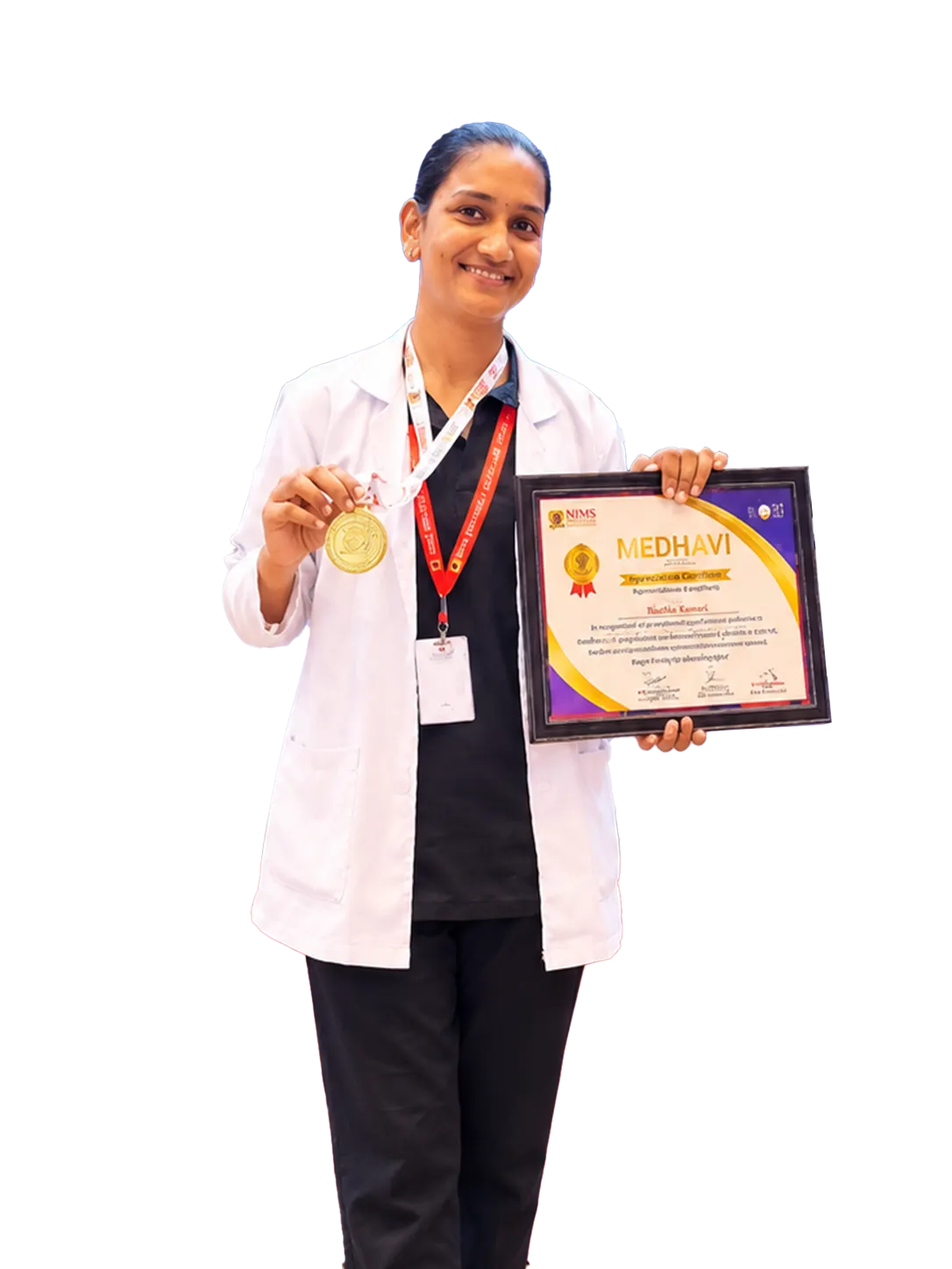
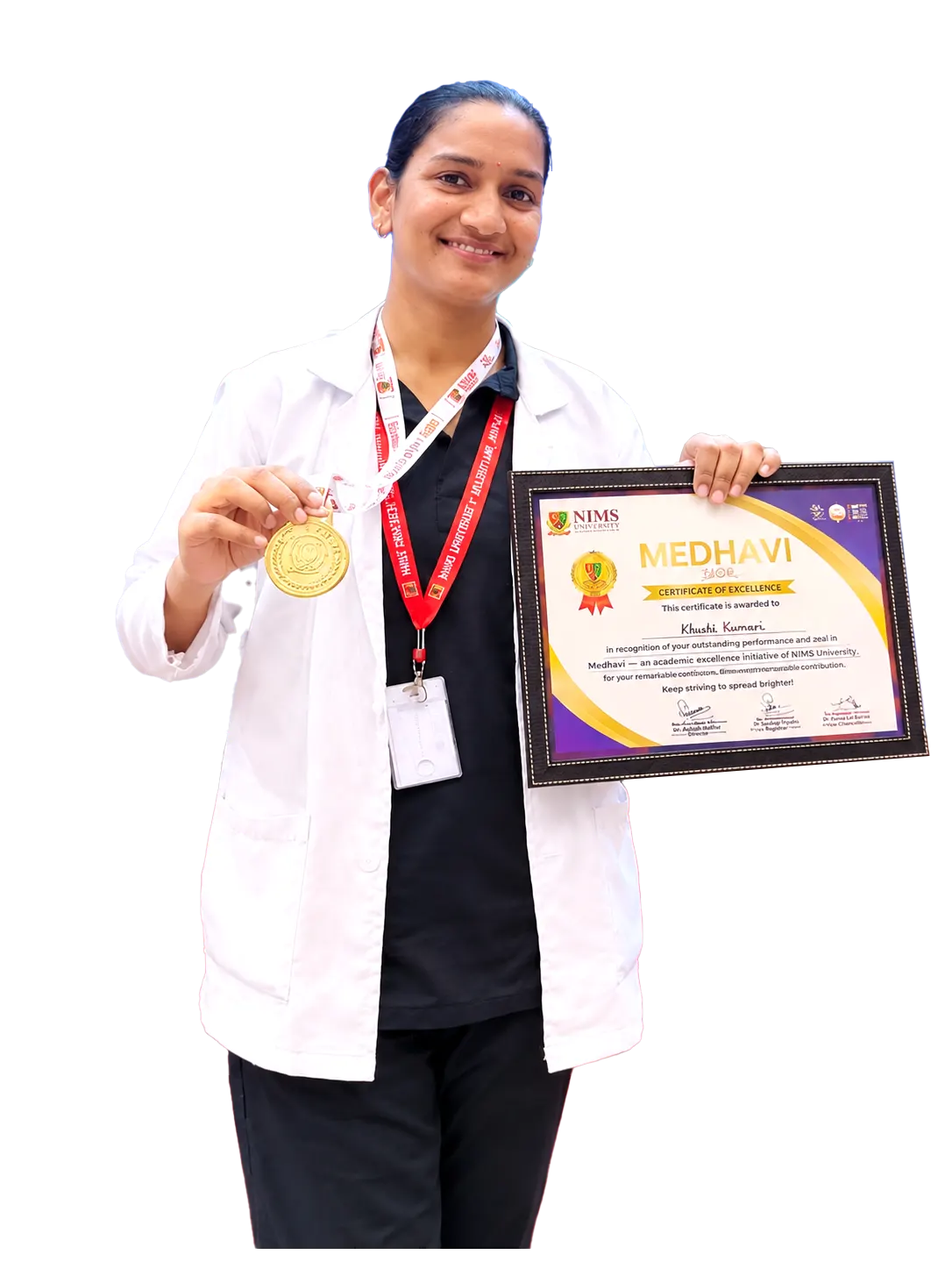
hero section updated

Changed region(s): [[0.1215, 0.0622, 0.9724, 1.0], [0.3039, 0.6842, 0.3343, 0.7153]]

diff --git a/index.html b/index.html
@@ -459,7 +459,7 @@
 
 
                                                         <div class="law-placement-destination">
-                                                               <div class="law-placement-logos">
+                                                               <div class="law-placement-logos law-placement-organisation">
                                                                       <div class="law-placement-badge law-placement-badge--logo law-placement-badge--rjs">
                                                                              <img alt="Rajasthan High Court emblem" decoding="async" loading="lazy" src="images/nims-hospital-logo.png">
                                                                       </div>
@@ -480,7 +480,7 @@
 
 
                                                         <div class="law-placement-destination">
-                                                               <div class="law-placement-logos">
+                                                               <div class="law-placement-logos law-placement-organisation">
                                                                       <div class="law-placement-badge law-placement-badge--logo law-placement-badge--rjs">
                                                                              <img alt="Rajasthan High Court emblem" decoding="async" loading="lazy" src="images/nims-hospital-logo.png">
                                                                       </div>
@@ -501,7 +501,7 @@
 
 
                                                         <div class="law-placement-destination">
-                                                               <div class="law-placement-logos">
+                                                               <div class="law-placement-logos law-placement-organisation">
                                                                       <div class="law-placement-badge law-placement-badge--logo law-placement-badge--court">
                                                                              <img alt="Nims Hospital Rajasthan, Jaipur logo" decoding="async" loading="lazy" src="images/nims-hospital-logo.png">
                                                                       </div>
@@ -782,7 +782,7 @@
                                                                <p class="law-placement-role">Sr. Nursing Officer</p>
                                                         </div>
                                                         <div class="law-placement-destination">
-                                                               <div class="law-placement-logos">
+                                                               <div class="law-placement-logos law-placement-organisation">
                                                                       <div class="law-placement-badge law-placement-badge--logo">
                                                                              <img alt="Aditya Birla Fashion and Retail Limited logo" decoding="async" loading="lazy" src="images/fortis-logo.png">
                                                                       </div>
@@ -1423,7 +1423,7 @@
                      </div>
               </section>
 
-              <section aria-labelledby="career-title" class="career section-space" id="career">
+              <!-- <section aria-labelledby="career-title" class="career section-space" id="career">
                      <div class="content-width">
                             <div class="career-profiles-header">
                                    <h2 class="career-profiles-title" id="career-title">
@@ -1443,7 +1443,7 @@
                                    </div>
                             </div>
                             <div aria-label="Law student internship stories" class="career-profiles-track" id="career-profiles" role="region" tabindex="0">
-                                   <!-- <article aria-label="Abhishek Kumar internship stories" class="career-profile-card law-internship-card" data-student="abhishek-kumar" data-internship-rotator="">
+                                   <article aria-label="Abhishek Kumar internship stories" class="career-profile-card law-internship-card" data-student="abhishek-kumar" data-internship-rotator="">
                                           <div class="law-internship-portrait-frame">
                                                  <img alt="Abhishek Kumar" class="career-profile-portrait" decoding="async" height="1536" loading="lazy" src="images/abhishek-khurana-portrait.webp" width="1024">
                                           </div>
@@ -1501,19 +1501,19 @@
                                                                </svg></button>
                                                  </div>
                                           </div>
-                                   </article> -->
+                                   </article>
                                    <article aria-label="Srestha Chatterjee: Represented NIMS University Rajasthan in the Rajasthan Budget 2026" class="career-profile-card law-internship-card" data-student="pooja-das">
                                           <div class="law-internship-portrait-frame">
                                                  <img alt="Srestha Chatterjee" class="career-profile-portrait" decoding="async" height="1536" loading="lazy" src="images/srestha-chatterjee.webp" width="1024">
                                           </div>
                                           <div class="career-profile-copy">
                                                  <h3>Srestha Chatterjee</h3>
-                                                 <!-- <div class="law-internship-organisation">
+                                                 <div class="law-internship-organisation">
                                                         <img alt="People's Union for Civil Liberties logo" class="career-profile-company law-internship-logo law-internship-logo--pucl" decoding="async" height="80" loading="lazy" src="images/pucl-logo.webp" width="293">
                                                         <span>People's Union for Civil Liberties</span>
-                                                 </div> -->
+                                                 </div>
                                                  <p>
-                                                        <!-- <strong class="career-profile-role">Human Rights <span class="internship-highlight">Internship</span></strong> -->
+                                                        <strong class="career-profile-role">Human Rights <span class="internship-highlight">Internship</span></strong>
                                                         Represented NIMS University Rajasthan in the Rajasthan Budget 2026 Communication and Debate Programme before the Hon’ble Prime Minister and Chief Minister of Rajasthan.</p>
                                           </div>
                                    </article>
@@ -1523,16 +1523,16 @@
                                           </div>
                                           <div class="career-profile-copy">
                                                  <h3>Priya Khatana</h3>
-                                                 <!-- <div class="law-internship-organisation">
+                                                 <div class="law-internship-organisation">
                                                         <img alt="Rajasthan High Court logo" class="career-profile-company law-internship-logo law-internship-logo--rajasthan-high-court" decoding="async" height="275" loading="lazy" src="images/rajasthan-high-court-logo.webp" width="275">
                                                         <span>Rajasthan High Court</span>
-                                                 </div> -->
+                                                 </div>
                                                  <p>
-                                                        <!-- <strong class="career-profile-role">Criminal Litigation <span class="internship-highlight">Internship</span></strong> -->
+                                                        <strong class="career-profile-role">Criminal Litigation <span class="internship-highlight">Internship</span></strong>
                                                         Represented Rajasthan in senior state volleyball and basketball championships and the state-level triple jump championship during 2023–24 and 2024–25.</p>
                                           </div>
                                    </article>
-                                   <!-- <article aria-label="Anisha Bishnoi: Rajasthan High Court internship" class="career-profile-card law-internship-card" data-student="anisha-bishnoi">
+                                   <article aria-label="Anisha Bishnoi: Rajasthan High Court internship" class="career-profile-card law-internship-card" data-student="anisha-bishnoi">
                                           <div class="law-internship-portrait-frame">
                                                  <img alt="Anisha Bishnoi" class="career-profile-portrait" decoding="async" height="1536" loading="lazy" src="images/anisha-bishnoi-portrait.webp" width="1024">
                                           </div>
@@ -1548,8 +1548,8 @@
                                                         experience places legal theory within the working environment of
                                                         the High Court.</p>
                                           </div>
-                                   </article> -->
-                                   <!-- <article aria-label="Shaina Choudhary: Rajasthan High Court internship" class="career-profile-card law-internship-card" data-student="shaina-choudhary">
+                                   </article>
+                                   <article aria-label="Shaina Choudhary: Rajasthan High Court internship" class="career-profile-card law-internship-card" data-student="shaina-choudhary">
                                           <div class="law-internship-portrait-frame">
                                                  <img alt="Shaina Choudhary" class="career-profile-portrait" decoding="async" height="1448" loading="lazy" src="images/shaina-choudhary-portrait.webp" width="1086">
                                           </div>
@@ -1565,8 +1565,8 @@
                                                         the experience offers a professional context for the criminal
                                                         law she studies at NIMS.</p>
                                           </div>
-                                   </article> -->
-                                   <!-- <article aria-label="Sneha Chauhan: Allahabad High Court, Lucknow Bench internship" class="career-profile-card law-internship-card" data-student="sneha-chauhan">
+                                   </article>
+                                   <article aria-label="Sneha Chauhan: Allahabad High Court, Lucknow Bench internship" class="career-profile-card law-internship-card" data-student="sneha-chauhan">
                                           <div class="law-internship-portrait-frame">
                                                  <img alt="Sneha Chauhan" class="career-profile-portrait" decoding="async" height="1536" loading="lazy" src="images/sneha-chauhan-portrait.webp" width="1024">
                                           </div>
@@ -1582,8 +1582,8 @@
                                                         with a judicial setting. It brings the court's role in the
                                                         justice system closer to her learning.</p>
                                           </div>
-                                   </article> -->
-                                   <!-- <article aria-label="Nandini Sisodiya: Allahabad High Court, Lucknow Bench internship" class="career-profile-card law-internship-card" data-student="nandini-sisodiya">
+                                   </article>
+                                   <article aria-label="Nandini Sisodiya: Allahabad High Court, Lucknow Bench internship" class="career-profile-card law-internship-card" data-student="nandini-sisodiya">
                                           <div class="law-internship-portrait-frame">
                                                  <img alt="Nandini Sisodiya" class="career-profile-portrait" decoding="async" height="1536" loading="lazy" src="images/nandini-sisodiya-portrait.webp" width="1024">
                                           </div>
@@ -1599,8 +1599,8 @@
                                                         connects classroom study with the professional environment in
                                                         which judicial work takes place.</p>
                                           </div>
-                                   </article> -->
-                                   <!-- <article aria-label="Himanshi Bhardwaj: Madhya Pradesh High Court, Indore Bench internship" class="career-profile-card law-internship-card" data-student="himanshi-bhardwaj">
+                                   </article>
+                                   <article aria-label="Himanshi Bhardwaj: Madhya Pradesh High Court, Indore Bench internship" class="career-profile-card law-internship-card" data-student="himanshi-bhardwaj">
                                           <div class="law-internship-portrait-frame">
                                                  <img alt="Himanshi Bhardwaj" class="career-profile-portrait" decoding="async" height="1448" loading="lazy" src="images/himanshi-bhardwaj-portrait.webp" width="1086">
                                           </div>
@@ -1616,8 +1616,8 @@
                                                         advocate's practice. It places her legal education in the
                                                         context of a working chamber.</p>
                                           </div>
-                                   </article> -->
-                                   <!-- <article aria-label="Shushma Yadav: Rajasthan High Court, Jaipur Bench internship" class="career-profile-card law-internship-card" data-student="shushma-yadav">
+                                   </article>
+                                   <article aria-label="Shushma Yadav: Rajasthan High Court, Jaipur Bench internship" class="career-profile-card law-internship-card" data-student="shushma-yadav">
                                           <div class="law-internship-portrait-frame">
                                                  <img alt="Shushma Yadav" class="career-profile-portrait" decoding="async" height="1536" loading="lazy" src="images/shushma-yadav-portrait.webp" width="1024">
                                           </div>
@@ -1633,13 +1633,13 @@
                                                         practice. Her experience brings the professional setting of an
                                                         advocate's chamber into her journey as a law student.</p>
                                           </div>
-                                   </article> -->
+                                   </article>
                             </div>
                             <p aria-live="polite" class="career-profiles-announcement visually-hidden" role="status">
                             </p>
 
                      </div>
-              </section>
+              </section> -->
 
 
               <!-- End Videos and Student Stories -->
@@ -1951,17 +1951,22 @@
                                           <p>From academic excellence and clinical research achievements to sports victories, healthcare competitions, and professional recognitions, NIMS College of Nursing & Occupational Therapy celebrates student success across disciplines.</p>
                                    </header>
                                    <div aria-label="Student achievement highlights" class="law-achievements-stats">
-                                          <article><strong>Top 5</strong>
-                                                 <h3>All India Institute of Medical Sciences</h3>
-                                                 <p>New Delhi</p>
+                                          <article><strong>Designation</strong>
+                                                 <h3>State championship in volleyball</h3>
+                                                 <p>Basketball - State Gold Medal</p>
+                                                 <p>Atheletics - District & State Level</p>
+                                                 <p>Relay Race - Gold Medal in ATC NCC</p>
+                                                 <p>volleyball - Gold Medal in NCC</p>
+                                                 <p>volleyball - Gold Medal in sailing expedition</p>
                                           </article>
                                           <article><strong>Clinical</strong>
-                                                 <h3>Clinical Excellence</h3>
+                                                 <!-- <h3>Clinical Excellence</h3> -->
                                                  <p>Hands-on clinical training at NIMS Hospital, Jaipur</p>
                                           </article>
                                           <article><strong>National</strong>
                                                  <h3>Professional Recognition</h3>
-                                                 <p>Developing skilled nursing professionals for healthcare excellence</p>
+                                                
+                                                 <p>Selected as a Senior Cadet from Jaipur under the 3 Raj Naval Unit to represent the college at the prestigious National NCC Camp held in Manali, demonstrating leadership, discipline, and dedication.</p>
                                           </article>
                                    </div>
                                    <figure class="law-achievements-hero">
@@ -1972,12 +1977,12 @@
                                           <span aria-hidden="true" class="law-achievement-doodle law-achievement-doodle--committee"><svg viewBox="0 0 60 60" fill="none">
                                                         <path d="m8 18 22-10 22 10M12 22h36M14 26v17m11-17v17m10-17v17m11-17v17M9 47h42M6 52h48"></path>
                                                  </svg>Nursing</span>
-                                          <img alt="Khushi Kumari holding her Special Mention award and certificate" class="law-achievements-hero-image" decoding="async" loading="lazy" src="images/khushu-kumari.webp" width="1024" height="1536">
-                                          <figcaption><strong>Khushi Kumari</strong><span>Special Mention Award</span>
+                                          <img alt="Khushi Kumari holding her Special Mention award and certificate" class="law-achievements-hero-image" decoding="async" loading="lazy" src="images/priya-khatana.webp" width="1024" height="1536">
+                                          <figcaption><strong>Priya Khatana</strong><span>Senior championship in volleyball Bhilwara, Rajasthan</span>
                                           </figcaption>
                                    </figure>
                             </div>
-                            <div class="law-achievements-gallery-heading" style="display: none;">
+                            <div class="law-achievements-gallery-heading">
                                    <h3>Student Achievements &amp; Recognition</h3>
                                    <div aria-label="Achievement gallery controls" class="law-achievements-controls">
                                           <button aria-controls="law-achievements-track" aria-label="Previous student achievements" data-achievement-previous="" type="button"><span aria-hidden="true">←</span></button>
@@ -1985,68 +1990,63 @@
                                    </div>
                             </div>
                             <div aria-label="Student achievements and participation" class="law-achievements-track" id="law-achievements-track" role="list" tabindex="0">
-                                   <!-- <article class="law-achievement-card law-achievement-card--portrait" data-achievement="nitya-singh-special-mention-rajya-sabha-committee" role="listitem">
+                                   <article class="law-achievement-card law-achievement-card--portrait" data-achievement="nitya-singh-special-mention-rajya-sabha-committee" role="listitem">
                                           <div class="law-achievement-image">
-                                                 <img alt="Nitya Singh, NIMS School of Law student" decoding="async" loading="lazy" src="images/nitya-singh-special-mention-rajya-sabha-committee-card-v2.webp" width="1024" height="1536">
+                                                 <img alt="Nitya Singh, NIMS School of Law student" decoding="async" loading="lazy" src="images/laurette.webp" width="1024" height="1536">
                                           </div>
                                           <header class="law-achievement-card-heading">
-                                                 <h4>Nitya<br>Singh</h4>
-                                                 <span>Parliamentary Honour</span>
+                                                 <h4>Laurette<br>Phiri</h4>
+                                                 <!-- <span>Global Arcus</span> -->
                                           </header>
                                           <div class="law-achievement-card-copy " style="margin-top: 80%;">
-                                                 <strong class="law-achievement-award ">Special Mention Award</strong>
-                                                 <p>Recognised with a Special Mention Award in the Rajya Sabha
-                                                        Committee.</p>
+                                                 <strong class="law-achievement-award ">Global Arcus Award</strong>
+                                                 <p>1<sup>st</sup> Postion in Girls Football, Rajasthan</p>
                                           </div>
                                           
                                    </article>
                                    <article class="law-achievement-card law-achievement-card--portrait" data-achievement="bhawana-honourable-mention-ncw-committee" role="listitem">
                                           <div class="law-achievement-image">
-                                                 <img alt="Bhawana, NIMS School of Law student" decoding="async" loading="lazy" src="images/bhawana-honourable-mention-ncw-committee-card-v2.webp" width="1024" height="1536">
+                                                 <img alt="Srestha Chatterjee" decoding="async" loading="lazy" src="images/srestha-chatterjee.webp" width="1024" height="1536">
                                           </div>
                                           <header class="law-achievement-card-heading">
-                                                 <h4>Bhawana</h4>
-                                                 <span>Committee Recognition</span>
+                                                 <h4>Srestha Chatterjee</h4>
+                                                 <!-- <span>Committee Recognition</span> -->
                                           </header>
                                           <div class="law-achievement-card-copy">
-                                                 <strong class="law-achievement-award">Honourable Mention Award</strong>
-                                                 <p>Recognised in the National Commission for Women Committee.</p>
+                                                 <strong class="law-achievement-award">Communication & Debate Programme</strong>
+                                                 <p>Represented NIMS University Rajasthan in the Rajasthan Budget 2026 Communication and Debate Programme before the Hon’ble Prime Minister and Chief Minister of Rajasthan.</p>
                                           </div>
                                           
                                    </article>
                                    <article class="law-achievement-card law-achievement-card--portrait" data-achievement="diksha-parihar-ai-careers-for-women-fellowship" role="listitem">
                                           <div class="law-achievement-image">
-                                                 <img alt="Diksha Parihar, NIMS School of Law student" decoding="async" loading="lazy" src="images/diksha-parihar-ai-careers-for-women-fellowship-card-v2.webp" width="1024" height="1536">
+                                                 <img alt="Atidev, NIMS School of Nursing student" decoding="async" loading="lazy" src="images/atidev.webp" width="1024" height="1536">
                                           </div>
                                           <header class="law-achievement-card-heading">
-                                                 <h4>Diksha<br>Parihar</h4>
-                                                 <span>Fellowship Selection</span>
+                                                 <h4>Atidev</h4>
+                                                 <!-- <span>Fellowship Selection</span> -->
                                           </header>
                                           <div class="law-achievement-card-copy">
-                                                 <strong class="law-achievement-award">AI Careers for Women
-                                                        Fellowship</strong>
-                                                 <p>Selected nationally for the AI Careers for Women LinkedIn
-                                                        Fellowship.</p>
+                                                 <strong class="law-achievement-award">Excellence in Sports Award(Badminton)</strong>
+                                                 <p>03 Time District Champion – Banka, Bihar<br />01 Time State Champion – Patna, Bihar<br>02 Time State-Level Runner-up – Patna, Bihar<br />01 Time National Championship Participant – Represented Bihar</p>
                                           </div>
                                           
                                    </article>
                                    <article class="law-achievement-card law-achievement-card--portrait-group" data-achievement="national-environment-youth-parliament-top-five-finalists" role="listitem">
                                           <div class="law-achievement-image">
-                                                 <img alt="Five NIMS law students recognised as top-five finalists" decoding="async" loading="lazy" src="images/national-environment-youth-parliament-top-five-finalists-card-v4.webp" width="1024" height="1536">
+                                                 <img alt="Khushi Kumari Nursing students recognised as top-five finalists" decoding="async" loading="lazy" src="images/khushu-kumari.webp" width="1024" height="1536">
                                           </div>
                                           <header class="law-achievement-card-heading">
-                                                 <h4>Top 5 Finalists</h4>
-                                                 <span>National Recognition</span>
+                                                 <h4>Khushi Kumari</h4>
+                                                 <!-- <span>National Recognition</span> -->
                                           </header>
                                           <div class="law-achievement-card-copy">
-                                                 <strong class="law-achievement-award">National Environment Youth
-                                                        Parliament</strong>
-                                                 <p>NIMS School of Law students reached the top five at the 4th National
-                                                        Environment Youth Parliament at Vidhan Bhavan, Nagpur.</p>
+                                                 <strong class="law-achievement-award">Medhavi Award – University Topper</strong>
+                                                 <p>National-Level Participation – National Integration Camp (NIC) 2026</p>
                                           </div>
                                           
                                    </article>
-                                   <article class="law-achievement-card law-achievement-card--portrait-group" data-achievement="anita-badminton-competition-2025" role="listitem">
+                                   <!-- <article class="law-achievement-card law-achievement-card--portrait-group" data-achievement="anita-badminton-competition-2025" role="listitem">
                                           <div class="law-achievement-image">
                                                  <img alt="Anita and badminton competitors with trophies, medals and certificates" decoding="async" loading="lazy" src="images/anita-badminton-competition-2025-card-v4.webp" width="1024" height="1536">
                                           </div>

diff --git a/css/style.css b/css/style.css
@@ -2658,7 +2658,7 @@ dialog.law-event-dialog{width:min(1140px,calc(100vw - 40px));max-width:none;max-
 .law-achievements-heading h2>span{background:var(--heading-gradient);background-clip:text;-webkit-background-clip:text;color:transparent}
 .law-achievements-heading>p{max-width:1040px;margin:0;color:#383838;font:400 clamp(16px,1.15vw,21px)/1.65 "Plus Jakarta Sans",sans-serif}
 .law-achievements-stats{grid-area:stats;display:grid;grid-template-columns:repeat(3,minmax(0,1fr));gap:clamp(16px,1.5vw,28px);position:relative;z-index:2}
-.law-achievements-stats article{display:flex;flex-direction:column;justify-content:center;align-items:flex-start;min-width:0;min-height:clamp(190px,16.5vw,275px);padding:clamp(18px,1.4vw,27px);border:1px solid #426b90;border-radius:clamp(22px,2vw,34px);background:#fff}
+.law-achievements-stats article{display:flex;flex-direction:column;justify-content:start;align-items:flex-start;min-width:0;min-height:clamp(190px,16.5vw,275px);padding:clamp(18px,1.4vw,27px);border:1px solid #426b90;border-radius:clamp(22px,2vw,34px);background:#fff}
 .law-achievements-stats article>strong{display:block;margin-bottom:20px;color:#ce293c;font:400 clamp(40px,2.2vw,78px)/1.05 Anton,sans-serif;letter-spacing:-.02em;white-space:nowrap}
 .law-achievements-stats article:nth-child(2)>strong{font-size:clamp(30px,3.8vw,68px)}
 .law-achievements-stats h3{margin:0 0 8px;color:#292929;font:700 clamp(14px,1.1vw,20px)/1.35 "Plus Jakarta Sans",sans-serif}
@@ -2753,7 +2753,7 @@ dialog.law-event-dialog{width:min(1140px,calc(100vw - 40px));max-width:none;max-
 .law-achievement-card-heading h4{margin:0 0 24px;color:#fff;font:400 clamp(30px,2.65vw,46px)/1.07 Anton,sans-serif;letter-spacing:-.025em;overflow-wrap:normal}
 .law-achievement-card-heading p{margin:0 0 12px;color:#ffe477;font-size:clamp(12px,1vw,17px);line-height:1.4;font-weight:750}
 .law-achievement-card-heading>span{display:block;color:#fff2b5;font-size:clamp(11px,.82vw,14px);line-height:1.4;font-weight:650}
-.law-achievement-card .law-achievement-card-copy{position:absolute;z-index:4;left:6%;right:10%;bottom:40px;margin:0;padding:13px 15px;border-radius:12px;background:linear-gradient(100deg,#a6001dcc,#615c73b5);backdrop-filter:blur(10px);-webkit-backdrop-filter:blur(10px)}
+.law-achievement-card .law-achievement-card-copy{position:absolute;z-index:4;left:6%;right:10%;bottom:0px;margin:0;padding:13px 15px;border-radius:12px;background:linear-gradient(100deg,#a6001dcc,#615c73b5);backdrop-filter:blur(10px);-webkit-backdrop-filter:blur(10px)}
 .law-achievement-card .law-achievement-award{margin:0 0 12px;color:#fff;font:400 clamp(27px,2.05vw,36px)/1.13 Anton,sans-serif}
 .law-achievement-card .law-achievement-card-copy>p:last-child{margin:0;color:#fff;font:400 clamp(14px,1.05vw,18px)/1.55 "Plus Jakarta Sans",sans-serif}
 .law-achievement-card-badge{position:absolute;z-index:5;left:6%;bottom:28px;display:flex;align-items:center;min-height:66px;max-width:82%;padding:12px 18px;border-radius:18px;background:#fff;color:#990019;font:750 clamp(13px,1.05vw,18px)/1.3 "Plus Jakarta Sans",sans-serif}
